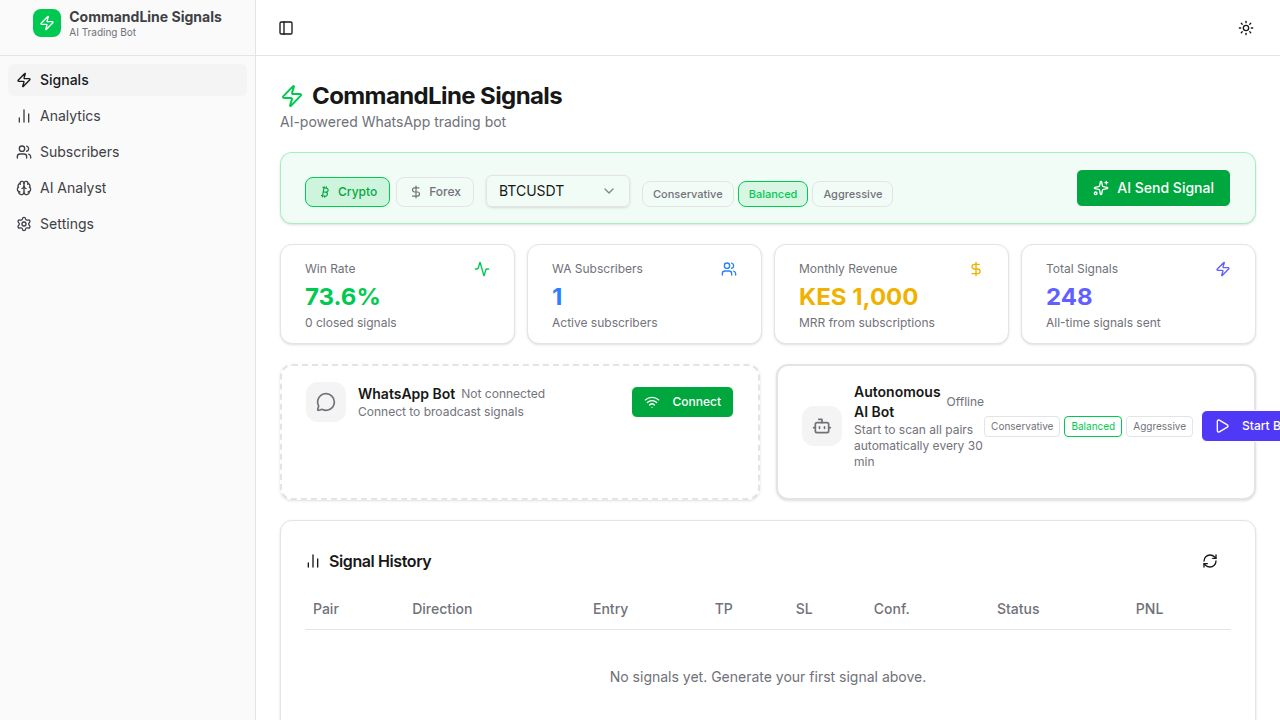
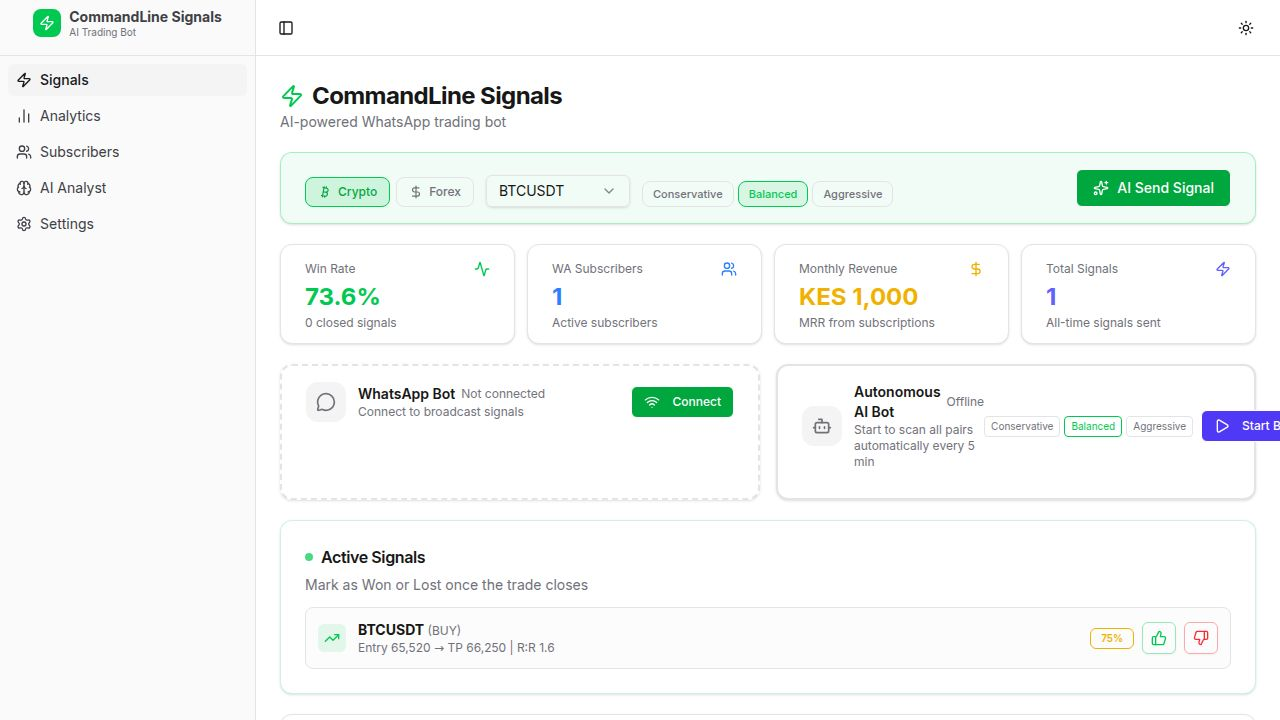
Add animations to log entries for visual feedback
Introduces CSS keyframes and applies animation classes to log entries in `dashboard.tsx` and `trading.tsx` for slide-in and glowing effects, utilizing `key={log.time}` for proper React rendering.

Replit-Commit-Author: Agent
Replit-Commit-Session-Id: 36a8544f-048d-4ded-9e51-f018dc87506d
Replit-Commit-Checkpoint-Type: full_checkpoint
Replit-Commit-Event-Id: 18989a0b-7531-4e3c-9b40-c706bc522e8d
Replit-Commit-Screenshot-Url: https://storage.googleapis.com/screenshot-production-us-central1/cd5e8a36-5812-45ef-99dd-6c4318762f03/36a8544f-048d-4ded-9e51-f018dc87506d/z3oiSMJ
Replit-Helium-Checkpoint-Created: true

diff --git a/artifacts/codevault/src/src/index.css b/artifacts/codevault/src/src/index.css
@@ -152,3 +152,48 @@
     @apply bg-background text-foreground;
   }
 }
+
+@keyframes logSlideIn {
+  from {
+    opacity: 0;
+    transform: translateY(-6px) scaleY(0.95);
+  }
+  to {
+    opacity: 1;
+    transform: translateY(0) scaleY(1);
+  }
+}
+
+@keyframes logGlowGreen {
+  0%   { box-shadow: 0 0 0 0 rgba(34,197,94,0); }
+  40%  { box-shadow: 0 0 8px 2px rgba(34,197,94,0.35); }
+  100% { box-shadow: 0 0 0 0 rgba(34,197,94,0); }
+}
+
+@keyframes logGlowRed {
+  0%   { box-shadow: 0 0 0 0 rgba(239,68,68,0); }
+  40%  { box-shadow: 0 0 8px 2px rgba(239,68,68,0.3); }
+  100% { box-shadow: 0 0 0 0 rgba(239,68,68,0); }
+}
+
+@keyframes logGlowYellow {
+  0%   { box-shadow: 0 0 0 0 rgba(234,179,8,0); }
+  40%  { box-shadow: 0 0 8px 2px rgba(234,179,8,0.3); }
+  100% { box-shadow: 0 0 0 0 rgba(234,179,8,0); }
+}
+
+.log-entry {
+  animation: logSlideIn 0.28s cubic-bezier(0.22, 1, 0.36, 1) both;
+}
+.log-entry-signal {
+  animation: logSlideIn 0.28s cubic-bezier(0.22, 1, 0.36, 1) both,
+             logGlowGreen 1.2s ease-out 0.1s both;
+}
+.log-entry-error {
+  animation: logSlideIn 0.28s cubic-bezier(0.22, 1, 0.36, 1) both,
+             logGlowRed 1.2s ease-out 0.1s both;
+}
+.log-entry-skip {
+  animation: logSlideIn 0.28s cubic-bezier(0.22, 1, 0.36, 1) both,
+             logGlowYellow 1.2s ease-out 0.1s both;
+}

diff --git a/artifacts/codevault/src/src/pages/trading.tsx b/artifacts/codevault/src/src/pages/trading.tsx
@@ -484,12 +484,12 @@ export default function Trading() {
                 <div className="flex items-center gap-2 text-xs text-indigo-400 py-2">
                   <Loader2 className="w-3 h-3 animate-spin" /> Running first market scan across all pairs…
                 </div>
-              ) : botLogs.map((log, i) => (
-                <div key={i} className={`flex items-start gap-2 px-2 py-1.5 rounded text-xs ${
-                  log.type === "signal" ? "bg-green-500/10 border border-green-500/20" :
-                  log.type === "skip"   ? "bg-yellow-500/10 border border-yellow-500/20" :
-                  log.type === "error"  ? "bg-red-500/10 border border-red-500/20" :
-                  "bg-muted/40"
+              ) : botLogs.map((log) => (
+                <div key={log.time} className={`flex items-start gap-2 px-2 py-1.5 rounded text-xs ${
+                  log.type === "signal" ? "bg-green-500/10 border border-green-500/20 log-entry-signal" :
+                  log.type === "skip"   ? "bg-yellow-500/10 border border-yellow-500/20 log-entry-skip" :
+                  log.type === "error"  ? "bg-red-500/10 border border-red-500/20 log-entry-error" :
+                  "bg-muted/40 log-entry"
                 }`}>
                   {log.type === "signal" ? <CheckCircle2 className="w-3 h-3 text-green-500 mt-0.5 flex-shrink-0" /> :
                    log.type === "skip"   ? <AlertCircle  className="w-3 h-3 text-yellow-500 mt-0.5 flex-shrink-0" /> :

diff --git a/artifacts/codevault/src/src/pages/dashboard.tsx b/artifacts/codevault/src/src/pages/dashboard.tsx
@@ -143,8 +143,13 @@ export default function Analytics() {
                   <p className="text-sm text-muted-foreground">No analysis logs yet.</p>
                   <p className="text-xs text-muted-foreground/70 mt-1">Start the bot on the Signals page to see live AI analysis here.</p>
                 </div>
-              ) : logs.map((log, i) => (
-                <div key={i} className={`flex items-start gap-2 px-2.5 py-1.5 rounded text-xs ${logBg(log.type)}`}>
+              ) : logs.map((log) => (
+                <div key={log.time} className={`flex items-start gap-2 px-2.5 py-1.5 rounded text-xs ${
+                  log.type === "signal" ? "bg-green-500/10 border border-green-500/20 log-entry-signal" :
+                  log.type === "skip"   ? "bg-yellow-500/10 border border-yellow-500/20 log-entry-skip" :
+                  log.type === "error"  ? "bg-red-500/10 border border-red-500/20 log-entry-error" :
+                  "bg-muted/40 log-entry"
+                }`}>
                   {logIcon(log.type)}
                   <span className="flex-1 font-mono leading-relaxed">{log.message}</span>
                   <span className="text-muted-foreground whitespace-nowrap flex-shrink-0">